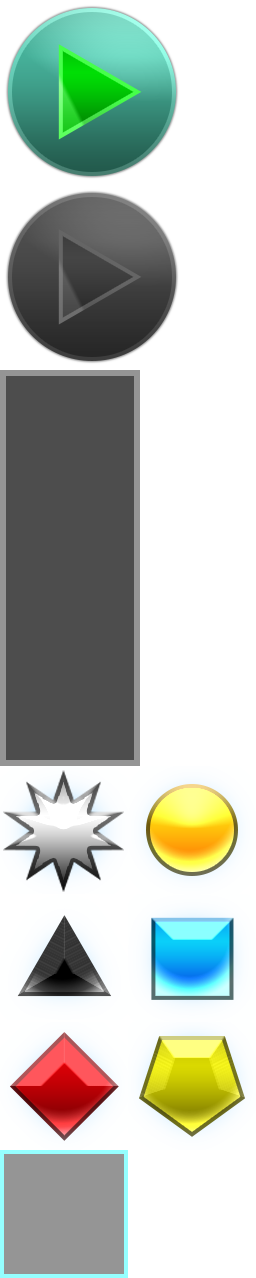
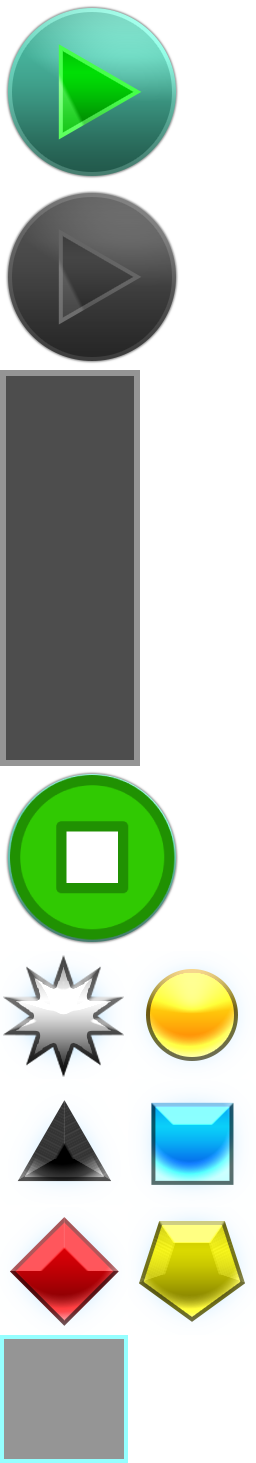
stop logic

diff --git a/src/controllers/GameController.ts b/src/controllers/GameController.ts
@@ -2,40 +2,40 @@ import { Wallet } from "../models/Wallet";
 import { Slot } from "../views/Slot";
 import { Wins } from "../models/Wins";
 import { dispatcher } from "../index";
-import { LOCK_UI, REEL_STOPPED, START_SPIN, UNLOCK_UI } from "../const/Events";
+import { FAST_STOP, LOCK_UI, REEL_STOPPED, START_SPIN, UNLOCK_UI } from "../const/Events";
 
 export type SpinState = "idle" | "spinning";
 
 export class GameController {
     private state: SpinState = "idle";
-
+    
     constructor(
         private wallet: Wallet,
         private slot: Slot,
         private wins: Wins
     ) {
-        this.slot.updateBalance(this.wallet.balance);
-        this.slot.updateWins(0);
-
+        this.makeBalanceCheck();
         dispatcher.on(START_SPIN, this.spin, this);
+        dispatcher.on(FAST_STOP, this.fastStop, this);
     }
 
     public async spin(): Promise<void> {
         if (this.state !== "idle") return;
 
         this.state = "spinning";
+        dispatcher.emit(LOCK_UI);
 
         const betSuccessFull = this.wallet.placeBet();
 
         if (!betSuccessFull) {
             this.state = "idle";
-            dispatcher.emit(LOCK_UI);
+            dispatcher.emit(LOCK_UI, true);
+            console.log("Bet failed");
 
             return;
         }
 
-        this.slot.updateBalance(this.wallet.balance);
-        this.slot.updateWins(0);
+        this.makeBalanceCheck();
 
         const result = this.wins.getSpinResult();
 
@@ -53,6 +53,21 @@ export class GameController {
         dispatcher.emit(UNLOCK_UI);
     }
 
+    private async fastStop() {
+        if (this.state !== "spinning") return;
+
+        const currentResult = this.wins.getCurrentResult();
+
+        await this.waitForReelStop();
+
+        if(currentResult) {
+            this.slot.fastStop(currentResult.stopPositions);
+        }
+
+        this.state = "idle";
+        dispatcher.emit(UNLOCK_UI);
+    }
+
     private async waitForReelStop(): Promise<void> {
         return new Promise((resolve) => {
             const handler = () => {
@@ -62,5 +77,22 @@ export class GameController {
 
             dispatcher.on(REEL_STOPPED, handler);
         });
+    }
+
+    private makeBalanceCheck() {
+        const balance = this.wallet.balance;
+        let completeLock = false;
+
+        if (balance <= 0) {
+            //lock the stop button as well
+            //it is a bit stupid, but it works
+            completeLock = true;
+            console.log("Insufficient funds...");
+        }
+
+        dispatcher.emit(LOCK_UI, completeLock);
+
+        this.slot.updateBalance(balance);
+        this.slot.updateWins(0);
     }
 }

diff --git a/src/index.ts b/src/index.ts
@@ -1,10 +1,11 @@
 import "./style.css";
 import { Application, Assets, AssetsManifest, EventEmitter, Sprite } from "pixi.js";
 import { Slot } from "./views/Slot";
-import { LOCK_UI, START_SPIN, UNLOCK_UI } from "./const/Events";
+import { FAST_STOP, LOCK_UI, START_SPIN, UNLOCK_UI } from "./const/Events";
 import { GameController } from "./controllers/GameController";
 import { Wallet } from "./models/Wallet";
 import { Wins } from "./models/Wins";
+import { startBalance } from "./const/CFG";
 
 export const gameWidth = 1280;
 export const gameHeight = 720;
@@ -44,28 +45,55 @@ console.log(
         document.body.appendChild(app.canvas);
 
         window.onresize = ()=> resizeCanvas();
-        resizeCanvas();
 
+        initGame();
+        createStartBtn();
+    }
+
+    function initGame(): void {
+        resizeCanvas();
         const slot = new Slot();
+
         app.stage.addChild(slot);
 
-        new GameController(new Wallet(100), slot, new Wins())
+        new GameController(new Wallet(startBalance), slot, new Wins())
+    }
 
-        //Simple spin button
+    function createStartBtn(): void {
         const spinBtn = new Sprite(Assets.get("PLAY.png"));
+
         spinBtn.position.set((gameWidth - spinBtn.width) * 0.5, gameHeight * 0.7);
         spinBtn.eventMode = "static";
         spinBtn.on("pointerdown", ()=> dispatcher.emit(START_SPIN));
         app.stage.addChild(spinBtn);
 
-        dispatcher.on(LOCK_UI, ()=>{
+        const stopBtn = new Sprite(Assets.get("STOP.png"));
+
+        stopBtn.position = spinBtn.position;
+        stopBtn.eventMode = "none";
+        stopBtn.visible = false;
+        stopBtn.on("pointerdown", () => {
+            dispatcher.emit(FAST_STOP);
+            stopBtn.eventMode = "none";
+        });
+
+        app.stage.addChild(stopBtn);
+
+        dispatcher.on(LOCK_UI, (lockStop: boolean)=>{
             spinBtn.eventMode = "none";
             spinBtn.texture = Assets.get("PLAY_DISABLED.png");
+
+            if(lockStop) return;
+
+            stopBtn.visible = true;
+            stopBtn.eventMode = "static";
         })
 
         dispatcher.on(UNLOCK_UI, ()=>{
             spinBtn.eventMode = "static";
             spinBtn.texture = Assets.get("PLAY.png");
+            stopBtn.visible = false;
+            stopBtn.eventMode = "none";
         })
     }
 

diff --git a/src/views/Slot.ts b/src/views/Slot.ts
@@ -1,14 +1,15 @@
 import { Assets, Container, Graphics, Sprite, Text } from "pixi.js";
 import { dispatcher, gameHeight, gameWidth } from "../index";
-import { SHOW_WIN, STOP_SPIN } from "../const/Events";
+import { SHOW_WIN } from "../const/Events";
 import { Reel } from "./Reel";
 import { balancePrefix, moneyStyle, spinTime, winPrefix } from "../const/CFG";
 
 export class Slot extends Container {
     private reel: Reel = new Reel();
     private reelContainer: Container = new Container();
-    private balanceText: Text = new Text({ text: balancePrefix + 0, style: moneyStyle, });
-    private winsText: Text = new Text({ text: winPrefix + 0, style: moneyStyle, });
+    private balanceText: Text = new Text({ text: balancePrefix + 0, style: moneyStyle });
+    private winsText: Text = new Text({ text: winPrefix + 0, style: moneyStyle });
+    private spinTimeOut: ReturnType<typeof setTimeout> | null = null;
 
     constructor() {
         super();
@@ -19,7 +20,6 @@ export class Slot extends Container {
         this.resizeTxt();
         this.addChild(this.balanceText);
         this.addChild(this.winsText);
-
 
         dispatcher.on(SHOW_WIN, () => {});
     }
@@ -46,11 +46,23 @@ export class Slot extends Container {
         this.reelContainer.mask = mask;
     }
 
-
     public startSpin(stopPositions: number[]): void {
         this.reel.spin();
         console.log("start spin");
-        setTimeout(() => this.reel.stop(stopPositions), spinTime);
+        this.spinTimeOut = setTimeout(() => {
+            this.reel.stop(stopPositions);
+            this.spinTimeOut = null;
+        }, spinTime);
+    }
+
+    public fastStop(stopPositions: number[]): void {
+        if (this.spinTimeOut !== null) {
+            clearTimeout(this.spinTimeOut);
+            this.spinTimeOut = null;
+        }
+
+        this.reel.stop(stopPositions);
+        console.log("fast stop");
     }
 
     public updateBalance(amount: number): void {

diff --git a/src/models/Wins.ts b/src/models/Wins.ts
@@ -4,6 +4,8 @@ import { REELSET } from "../const/CFG";
 export type WinType = 0 | 2 | 3;
 
 export class Wins {
+    private currentResult: { stopPositions: number[]; multi: WinType } | undefined = undefined;
+    
     constructor() {
     }
 
@@ -12,8 +14,18 @@ export class Wins {
         const symbols = this.getSymbols(startIndex);
         const stopPositions = this.windowIndexes(startIndex);
         const multi = this.evaluateWin(symbols);
-
+        
+        this.currentResult = { stopPositions, multi };
+        
         return { stopPositions, multi };
+    }
+    
+    public getCurrentResult(): { stopPositions: number[]; multi: WinType } | undefined {
+        if (!this.currentResult) {
+            return;
+        }
+        
+        return this.currentResult;
     }
 
     private getSymbols(startIndex: number): string[] {

diff --git a/src/views/Reel.ts b/src/views/Reel.ts
@@ -123,7 +123,7 @@ export class Reel extends Container {
 
         await gsap.to(this, { y: dipY, duration: 0.12, ease: "power1.out" });
         await gsap.to(this, { y: startY, duration: 0.22, ease: "power2.out" });
-
+        console.log("Reel stopped");
         dispatcher.emit(REEL_STOPPED);
     }
 

diff --git a/src/const/Events.ts b/src/const/Events.ts
@@ -1,5 +1,5 @@
 export const START_SPIN = 'START_SPIN';
-export const STOP_SPIN = 'STOP_SPIN';
+export const FAST_STOP = 'FAST_STOP';
 export const SHOW_WIN = 'SHOW_WIN';
 
 export const REEL_STOPPED = 'REEL_STOPPED';

diff --git a/src/const/CFG.ts b/src/const/CFG.ts
@@ -14,6 +14,8 @@ export const REELSET = [
     "SYM1","SYM5"
 ];
 
+export const startBalance = 100;
+
 export const spinTime = 3000;
 
 export const moneyStyle: TextStyleOptions = {
